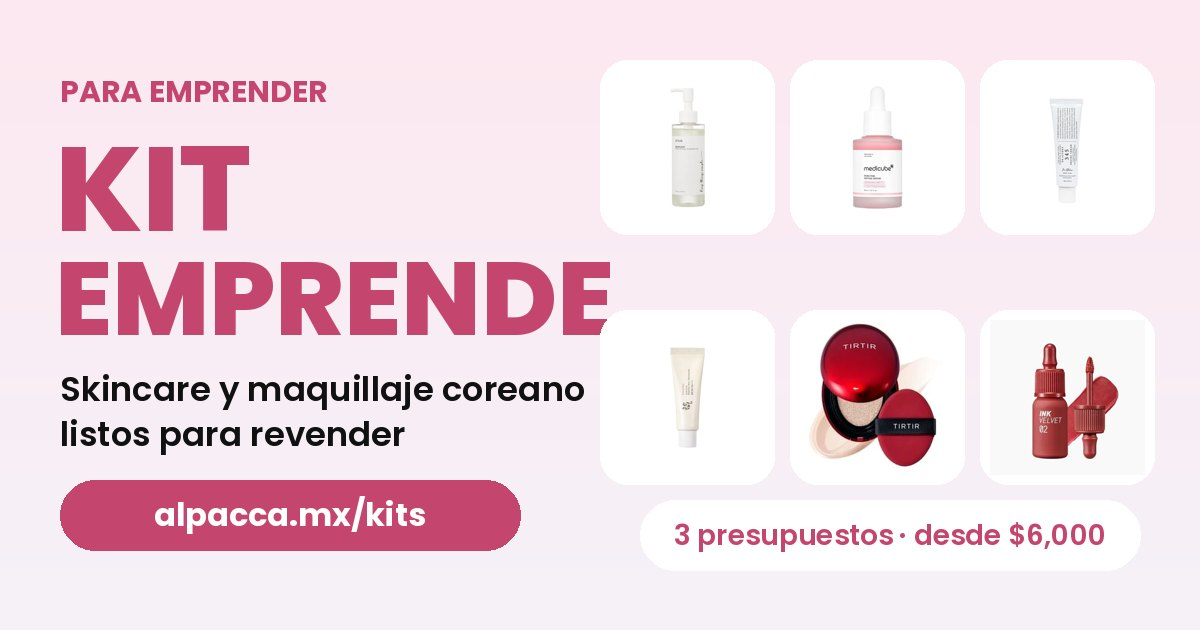
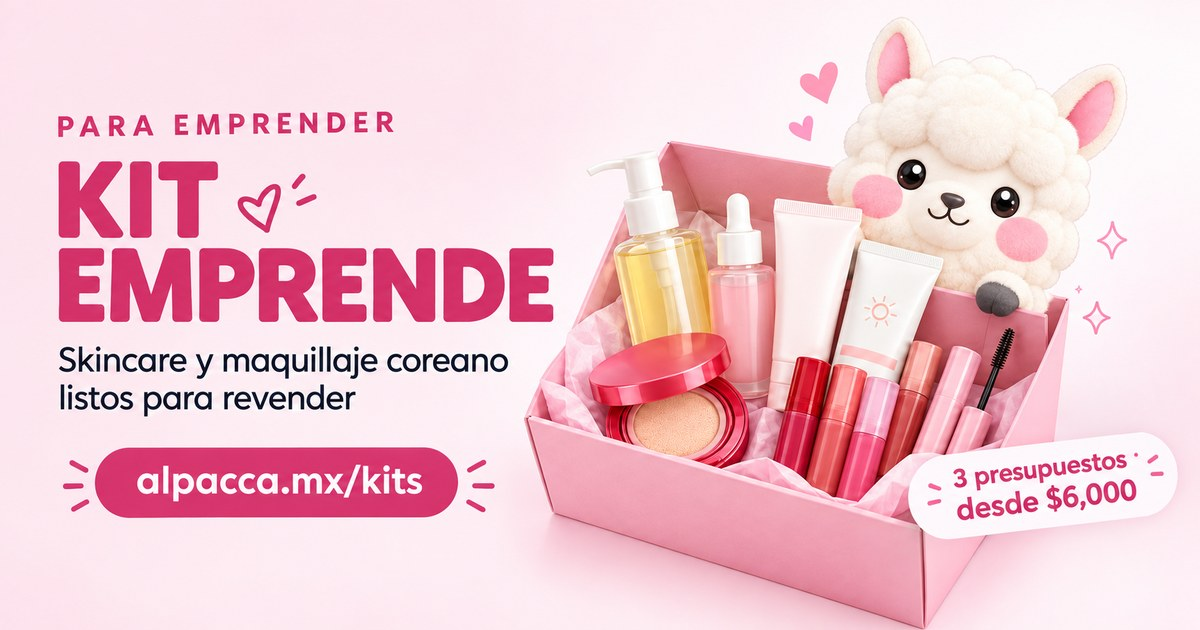
Kits: nueva portada para compartir el link (con la alpaca) (#468)
Sube OG_VERSION para que WhatsApp y Facebook dejen de mostrar la vieja.

Claude-Session: https://claude.ai/code/session_01Wu9FZE9ZiSTRdHxW17ALCd

diff --git a/netlify/functions/product-page.js b/netlify/functions/product-page.js
@@ -115,7 +115,7 @@ async function ogImage(tipo, name) {
 }
 // Sube este número cuando se cambien las imágenes de assets/og: WhatsApp y
 // Facebook guardan la miniatura por URL y si no cambia siguen con la vieja.
-const OG_VERSION = 3;
+const OG_VERSION = 4;
 // Accesos "preocupación de piel" del inicio (CONFIG.SKIN_CONCERNS en app.js).
 const PREOCUPACIONES = {
   acne: ["Acné y granitos", "Skincare coreano para piel con acné: ácido salicílico, árbol de té y centella. Envíos a todo México."],
